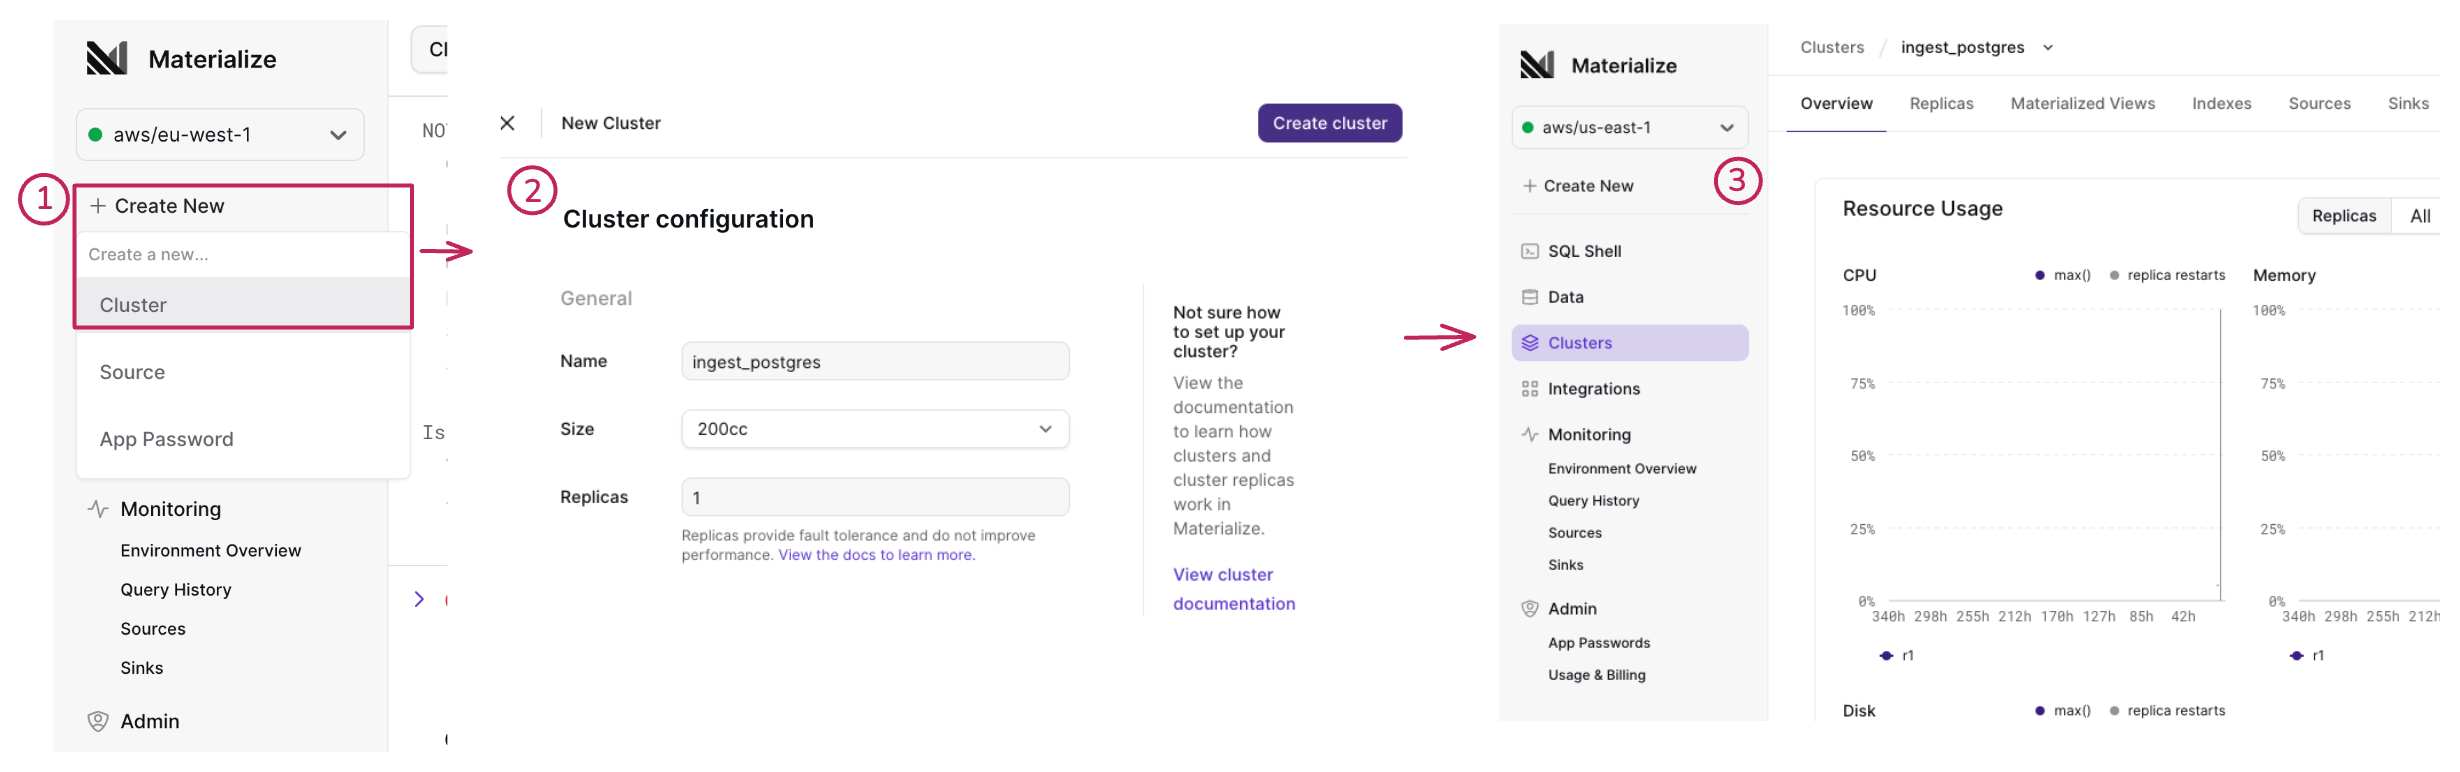
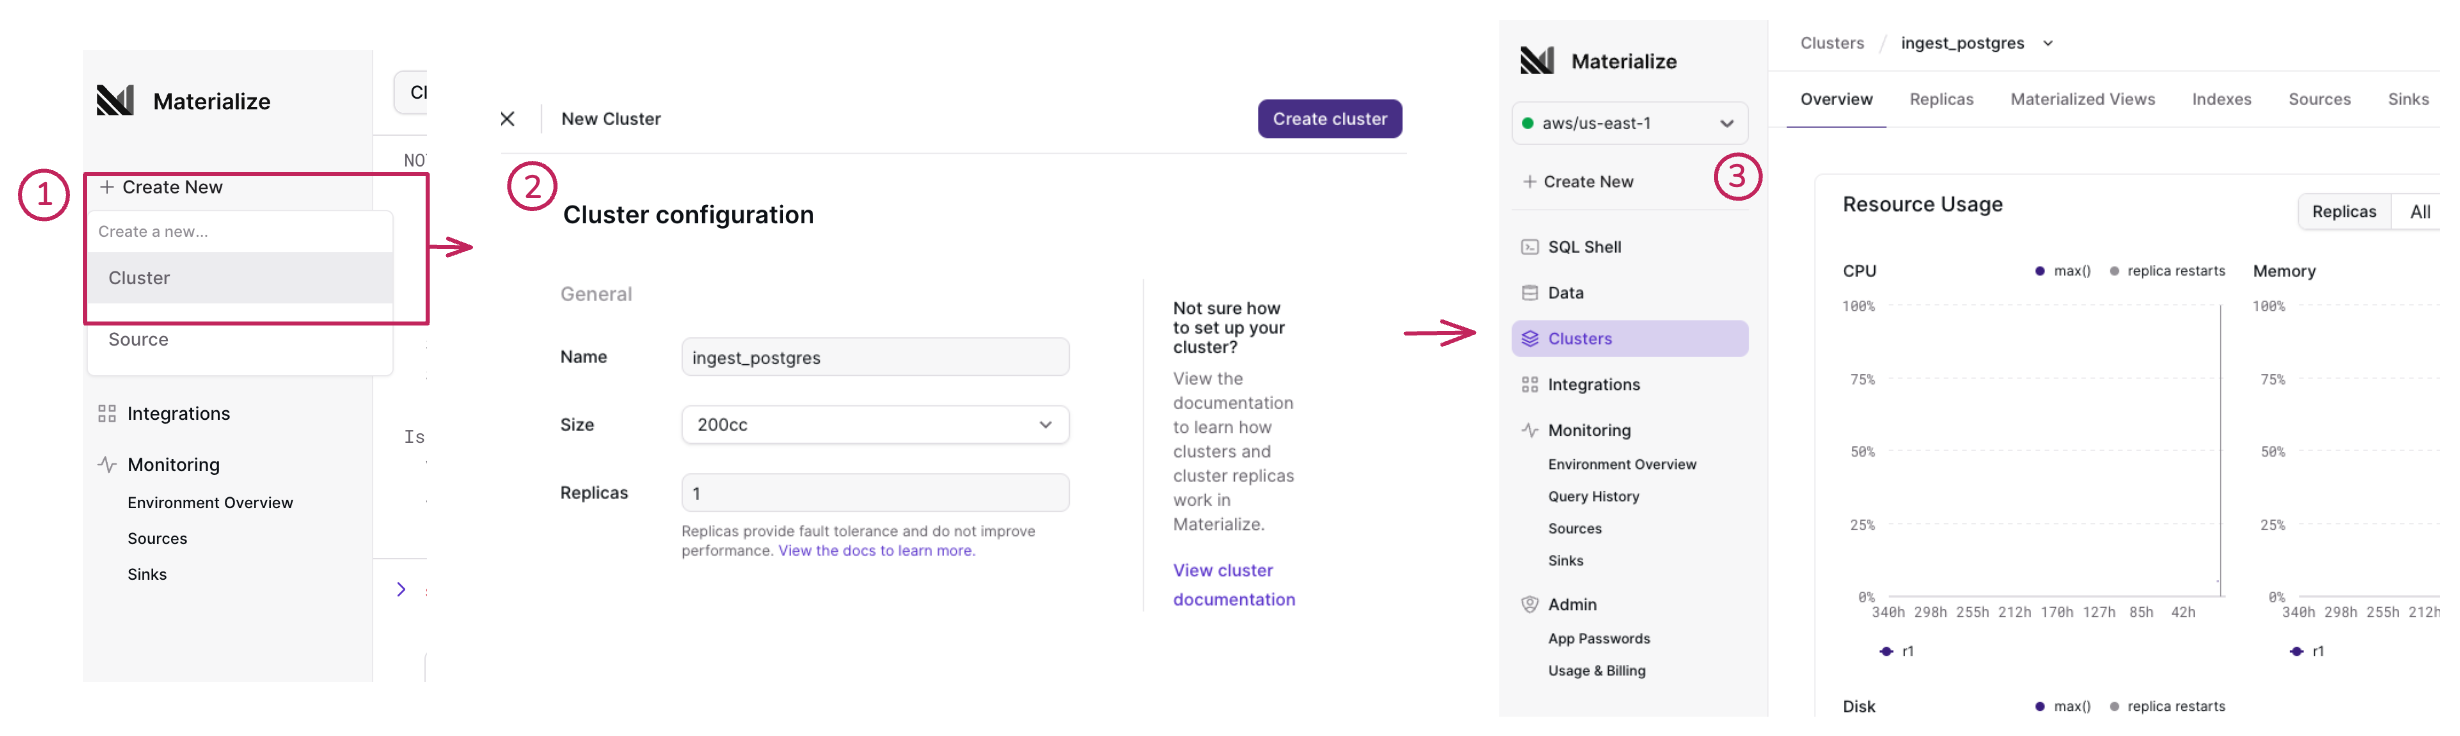
Docs console updates sm (#32192)

diff --git a/doc/user/layouts/shortcodes/kafka/cockroachdb/check-the-ingestion-status.html b/doc/user/layouts/shortcodes/kafka/cockroachdb/check-the-ingestion-status.html
@@ -5,9 +5,9 @@ storage layer atomically (i.e., at the same ingestion timestamp), you
 will **not able to query the source until snapshotting is complete**.
 
 In this step, you'll monitor the progress of the initial snapshot using the
-observability features in the [Materialize Console](/console/).
+observability features in the Materialize Console.
 
-1. If not already logged in, [log in to the Materialize Console](https://console.materialize.com/).
+1. In the Materialize Console
 
 1. Navigate to **Monitoring** > **Sources** and click through to the source you
    created in the previous step. In the source overview page, you will see a

diff --git a/doc/user/layouts/shortcodes/kafka/cockroachdb/create-a-cluster.html b/doc/user/layouts/shortcodes/kafka/cockroachdb/create-a-cluster.html
@@ -8,7 +8,7 @@ combination.
 In this step, you'll create a dedicated cluster for ingesting source data from
 topics in your Kafka (or Kafka-API compatible) broker.
 
-1. In the [SQL Shell](https://console.materialize.com/), or your preferred SQL
+1. In the Console's [SQL Shell](/console/sql-shell/), or your preferred SQL
    client connected to Materialize, use the [`CREATE CLUSTER`](/sql/create-cluster/)
    command to create the new cluster:
 

diff --git a/doc/user/layouts/shortcodes/postgres-direct/create-a-cluster.html b/doc/user/layouts/shortcodes/postgres-direct/create-a-cluster.html
@@ -8,7 +8,7 @@ combination.
 In this step, you'll create a dedicated cluster for ingesting source data from
 your PostgreSQL database.
 
-1. In the [SQL Shell](https://console.materialize.com/), or your preferred SQL
+1. In the [SQL Shell](/console/sql-shell/), or your preferred SQL
    client connected to Materialize, use the [`CREATE CLUSTER`](/sql/create-cluster/)
    command to create the new cluster:
 

diff --git a/doc/user/layouts/shortcodes/mysql-direct/ingesting-data/allow-materialize-ips.html b/doc/user/layouts/shortcodes/mysql-direct/ingesting-data/allow-materialize-ips.html
@@ -1,5 +1,5 @@
 
-1. In the [SQL Shell](https://console.materialize.com/), or your preferred SQL
+1. In the Console's SQL Shell, or your preferred SQL
    client connected to Materialize, use the [`CREATE SECRET`](/sql/create-secret/)
    command to securely store the password for the `materialize` MySQL user
    you created [earlier](#2-create-a-user-for-replication):

diff --git a/doc/user/content/console/create-new.md b/doc/user/content/console/create-new.md
@@ -9,15 +9,14 @@ menu:
 ---
 
 From the Console, you can create new [clusters](/concepts/clusters/ "Isolated
-pools of compute resources (CPU, memory, and scratch disk space)"),
-[sources](/concepts/sources/ "Upstream (i.e., external) systems you want
-Materialize to read data from"), and application passwords.
+pools of compute resources (CPU, memory, and scratch disk space)") and
+[sources](/concepts/sources/).
 
 ### Create new cluster
 
 ![Image of the Create New Cluster flow](/images/console/console-create-new/postgresql/create-new-cluster-flow.png "Create New Cluster flow")
 
-From the [Materialize console](https://console.materialize.com/):
+From the Materialize console:
 
 1. Click **+ Create New** and select **Cluster** to open the **New cluster**
    screen.
@@ -55,7 +54,7 @@ From the [Materialize console](https://console.materialize.com/):
 PostgreSQL](/images/console/console-create-new/postgresql/create-new-source-start.png
 "Create New Source start for PostgreSQL")
 
-From the [Materialize console](https://console.materialize.com/):
+From the Materialize Console:
 
 1. Click **+ Create New** and select **Source** to open the **New source**
    screen.
@@ -68,64 +67,3 @@ From the [Materialize console](https://console.materialize.com/):
     to the [Ingest data](/ingest-data/) section for your data source.
 
     {{</ tip >}}
-
-
-### Create new app password
-
-![Image of the Create application
-password](/images/console/console-create-new/create-app-password.png "Create
-application password")
-
-1. Click **+ Create New** and select **App Password** to open the **New app
-   password** modal.
-
-1. In the  **New app password** modal, specify the **Type** (either **Personal**
-   or **Service**) and the associated details:
-
-   {{< note >}}
-
-   - **Personal** apps are run under your user account.
-- **Service** apps are run under a Service account.  If the specified Service
-     account does not exist, it will be automatically created the **first time**
-     the app password is used.
-
-   {{</ note >}}
-
-
-   {{< tabs >}}
-   {{< tab "Personal" >}}
-
-   For a personal app that you will run under your user account, specify the
-   type and required field(s):
-
-   | Type | Details |
-   | ---- | ----------- |
-   | **Type** | Select **Personal** |
-   | **Name** | Specify a descriptive name. |
-
-
-   {{</ tab >}}
-   {{< tab "Service account" >}}
-
-   For an app that you will run under a Service account, specify the
-   type and required field(s):
-
-
-   | Field | Details |
-   | ----- | ----------- |
-   | **Type** | Select **Service** |
-   | **Name** | Specify a descriptive name. |
-   | **User** | Specify the service account user name. If the specifie account   does not exist, it will be automatically created the **first time** the application password is used. |
-   | **Roles** | Select the roles to associate with the account. <br><br><ul><li><strong>Organization Admin</strong> has _superuser_ privileges in the database.</li><li><strong>Organization Member</strong> has restricted access to the database, depending on the privileges defined via [role-based access control (RBAC)](/manage/access-control/#role-based-access-control-rbac). |
-
-   See also [Create service
-   accounts](/manage/access-control/create-service-accounts/) for creating
-   service accounts via Terraform.
-
-   {{</ tab >}}
-   {{</ tabs >}}
-
-1. Click **Create password** to create the app password.
-
-To view the created application passwords, go to [Admin > App
-Passwords](/console/admin/).

diff --git a/doc/user/content/console/_index.md b/doc/user/content/console/_index.md
@@ -16,8 +16,11 @@ manage your clusters and sources, issue SQL queries, and explore your objects.
 ![Image of the Materialize Console](/images/console/console.png
 "Materialize Console")
 
-- **Create New**: Shortcut menu to the **New Cluster** and **Create a Source**
-  screens.
+- **Create New**: Shortcut menu to the following screens:
+
+  - [**New cluster**](/console/create-new/#create-new-cluster) screens
+
+  - [**New source**](/console/create-new/#create-new-source) screens
 
 - [SQL Shell](/console/sql-shell/): Issue SQL queries.
 

diff --git a/doc/user/content/ingest-data/troubleshooting.md b/doc/user/content/ingest-data/troubleshooting.md
@@ -25,8 +25,7 @@ instead.
 
 ## Why isn't my source ingesting data?
 
-First, check the status of your source in the Materialize console by navigating
-to https://console.materialize.com/, clicking the **Sources** tab in the
+First, check the status of your source in the Materialize Console by clicking the **Sources** tab in the
 navigation bar, and clicking the affected source.
 
 Alternatively, you can get this information from the system catalog by querying

diff --git a/doc/user/content/transform-data/dataflow-troubleshooting.md b/doc/user/content/transform-data/dataflow-troubleshooting.md
@@ -382,7 +382,7 @@ ORDER BY mas.size DESC;
  16318559 | ArrangeBy[[Column(0)]]-errors   | Dataflow: materialize.public.num_bids_idx |       0 | 0 bytes
 ```
 
-In the [Materialize Console](https://console.materialize.com),
+In the Materialize Console,
 
 - The [**Cluster Overview**](/console/clusters/) page displays the cluster
   resource utilization for a selected cluster as well as the resource intensive
